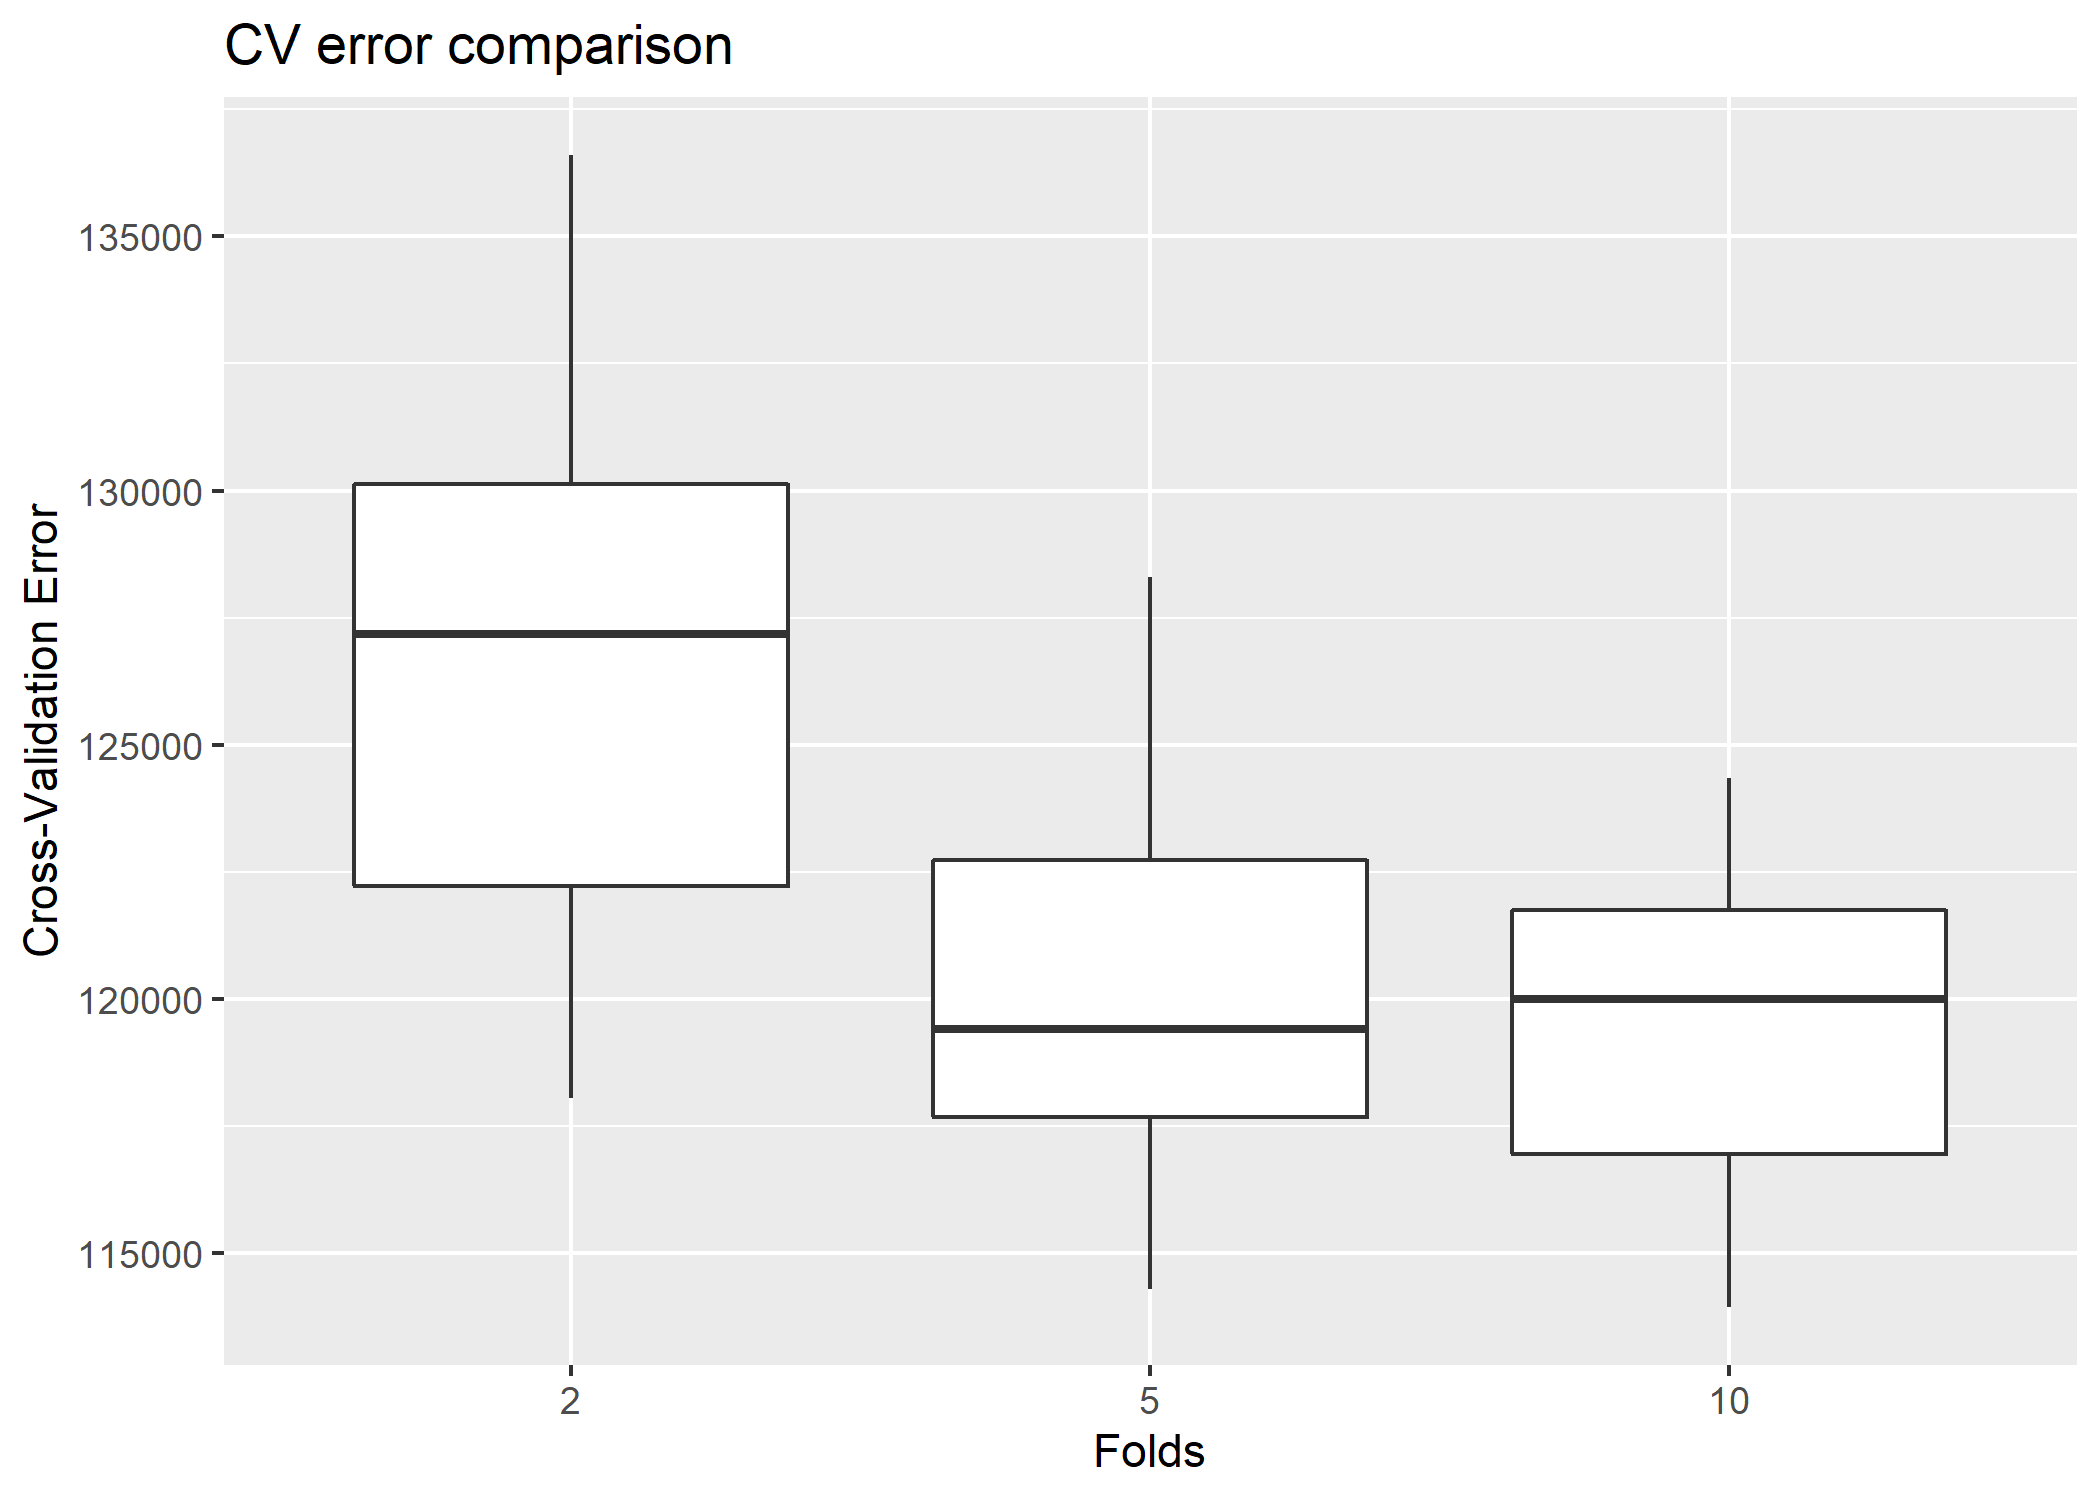
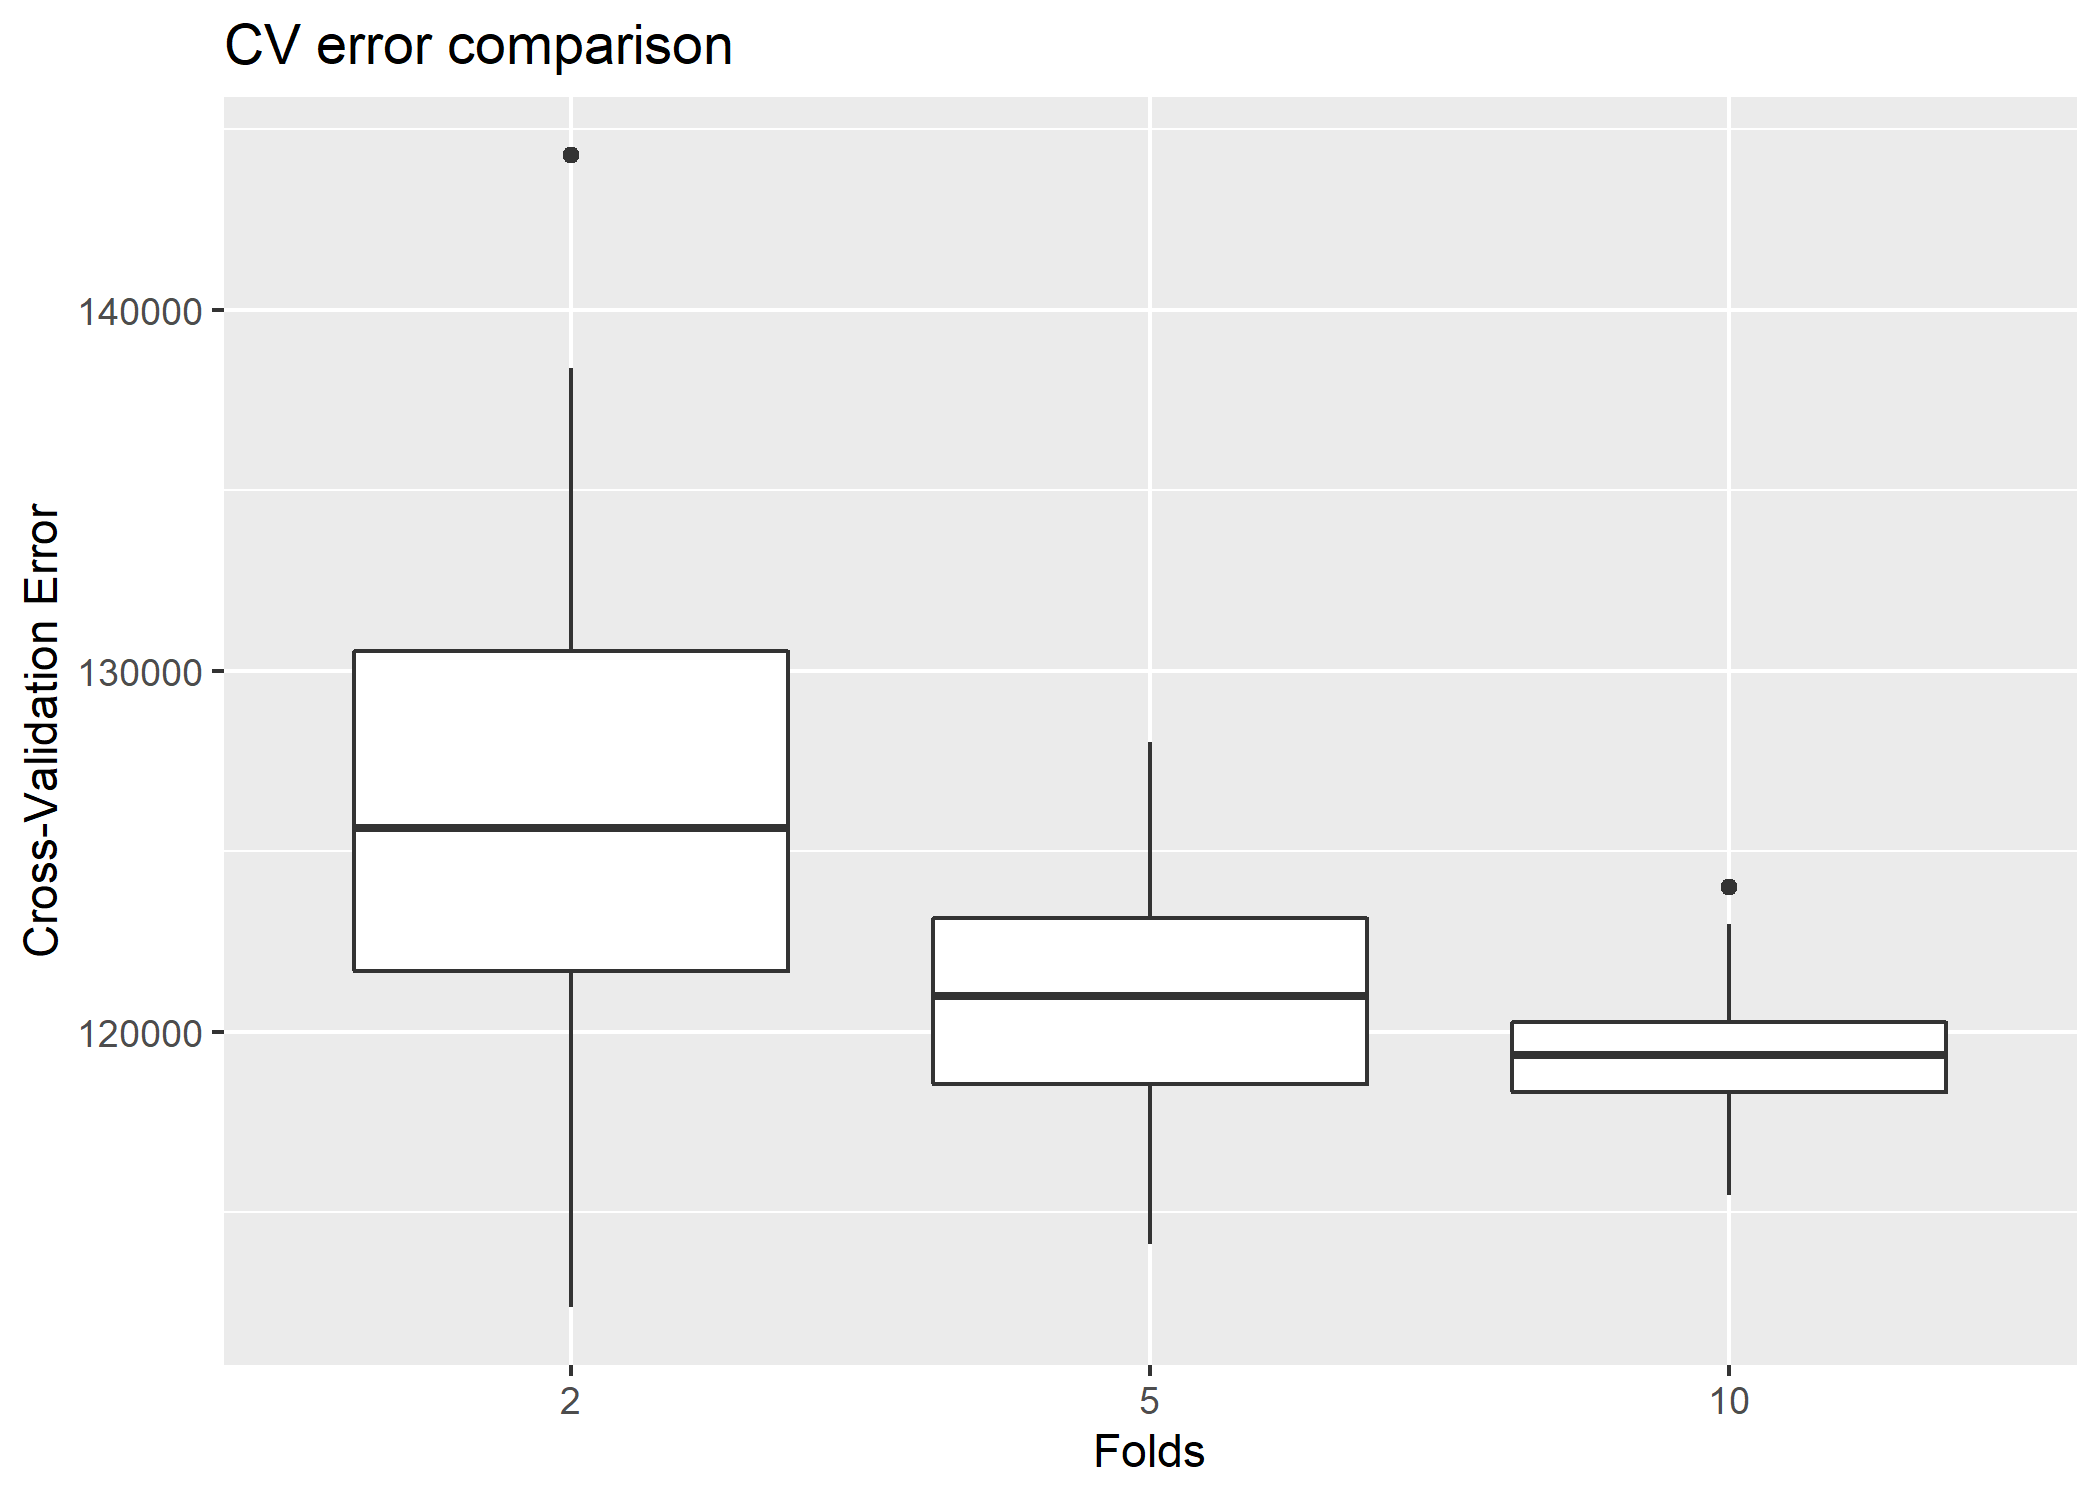
update analysis

diff --git a/Analysis/analysis.html b/Analysis/analysis.html
@@ -375,24 +375,25 @@ summary {
 <div id="cve-error-for-different-numbers-of-folds-across-30-simulations" class="section level3">
 <h3>CVE error for different numbers of folds across 30 simulations:</h3>
 <p>2 folds:</p>
-<p>1.219906310^{5}, 1.36609310^{5}, 1.287948610^{5}, 1.275122910^{5}, 1.267940110^{5}, 1.264496510^{5}, 1.316125310^{5}, 1.290623110^{5}, 1.288912510^{5}, 1.329263410^{5}, 1.319744210^{5}, 1.270353310^{5}, 1.180619210^{5}, 1.327824310^{5}, 1.336249910^{5}, 1.191001310^{5}, 1.251653110^{5}, 1.229254910^{5}, 1.300922310^{5}, 1.308212410^{5}, 1.273260210^{5}, 1.180486910^{5}, 1.216485210^{5}, 1.215209310^{5}, 1.183544210^{5}, 1.297739810^{5}, 1.261977110^{5}, 1.205215710^{5}, 1.25770710^{5}, 1.301380510^{5}</p>
+<p>1.215437610^{5}, 1.306407610^{5}, 1.164757810^{5}, 1.383913110^{5}, 1.443015810^{5}, 1.22162410^{5}, 1.149842310^{5}, 1.32435610^{5}, 1.257705710^{5}, 1.212636410^{5}, 1.255372910^{5}, 1.245378610^{5}, 1.162781910^{5}, 1.302533810^{5}, 1.204056110^{5}, 1.2000310^{5}, 1.317391610^{5}, 1.281997310^{5}, 1.123824610^{5}, 1.333523210^{5}, 1.244249210^{5}, 1.319673810^{5}, 1.295165110^{5}, 1.240821110^{5}, 1.231871610^{5}, 1.273521510^{5}, 1.259345910^{5}, 1.228803810^{5}, 1.323051210^{5}, 1.259994310^{5}</p>
 <p>5 folds:</p>
-<p>1.21888910^{5}, 1.19157610^{5}, 1.276760610^{5}, 1.16207110^{5}, 1.22877910^{5}, 1.16671710^{5}, 1.216993610^{5}, 1.194565910^{5}, 1.250993310^{5}, 1.180459510^{5}, 1.209108910^{5}, 1.168673310^{5}, 1.16110810^{5}, 1.142776210^{5}, 1.20899110^{5}, 1.229034510^{5}, 1.196277510^{5}, 1.192294610^{5}, 1.18614610^{5}, 1.165887310^{5}, 1.282921510^{5}, 1.237121610^{5}, 1.17159510^{5}, 1.17560510^{5}, 1.185738910^{5}, 1.245908610^{5}, 1.267360710^{5}, 1.223055110^{5}, 1.193462210^{5}, 1.179658410^{5}</p>
+<p>1.141371910^{5}, 1.201522310^{5}, 1.24649510^{5}, 1.233863610^{5}, 1.21162910^{5}, 1.207324610^{5}, 1.177587610^{5}, 1.214376210^{5}, 1.183011810^{5}, 1.198749910^{5}, 1.260979710^{5}, 1.262820310^{5}, 1.280221510^{5}, 1.193548810^{5}, 1.216630410^{5}, 1.181037310^{5}, 1.220324110^{5}, 1.169820310^{5}, 1.245106210^{5}, 1.208491710^{5}, 1.227312610^{5}, 1.213332610^{5}, 1.181625510^{5}, 1.150520810^{5}, 1.199677710^{5}, 1.193737310^{5}, 1.145438510^{5}, 1.233043510^{5}, 1.219196410^{5}, 1.233175910^{5}</p>
 <p>10 folds:</p>
-<p>1.164621710^{5}, 1.202861910^{5}, 1.203895410^{5}, 1.169407410^{5}, 1.165298710^{5}, 1.2203710^{5}, 1.163482910^{5}, 1.17446510^{5}, 1.201639510^{5}, 1.186313210^{5}, 1.243328310^{5}, 1.161849510^{5}, 1.236136510^{5}, 1.209650610^{5}, 1.217215910^{5}, 1.220008310^{5}, 1.190201510^{5}, 1.21748310^{5}, 1.158267910^{5}, 1.1694210^{5}, 1.203530810^{5}, 1.175527110^{5}, 1.198228510^{5}, 1.154389610^{5}, 1.232984210^{5}, 1.210798710^{5}, 1.139308510^{5}, 1.232275210^{5}, 1.193265910^{5}, 1.226546110^{5}</p>
+<p>1.202100810^{5}, 1.167870610^{5}, 1.223707810^{5}, 1.196736510^{5}, 1.185471310^{5}, 1.186538910^{5}, 1.17504910^{5}, 1.172076610^{5}, 1.180269810^{5}, 1.207788610^{5}, 1.229468810^{5}, 1.183571310^{5}, 1.190067510^{5}, 1.202999810^{5}, 1.240069410^{5}, 1.197886610^{5}, 1.183322310^{5}, 1.190441610^{5}, 1.192328910^{5}, 1.201716910^{5}, 1.202951710^{5}, 1.200118710^{5}, 1.194636110^{5}, 1.181098610^{5}, 1.207510510^{5}, 1.161792910^{5}, 1.154854210^{5}, 1.200744710^{5}, 1.191212310^{5}, 1.229804310^{5}</p>
 </div>
 <div id="boxplot-comparing-cve-for-different-numbers-of-folds-across-30-simiulations" class="section level3">
 <h3>Boxplot comparing CVE for different numbers of folds across 30 simiulations:</h3>
[2 lines of base64/hex data omitted]
 <p>Comparison of summary statistics for the CVE of different numbers of folds across 30 simiulations:</p>
 <pre><code>##   folds      min first_quartile   median     mean third_quartile      max
-## 1     2 118048.7       122224.3 127180.7 126717.6       130126.6 136609.3
-## 2     5 114277.6       117661.8 119401.4 120368.4       130126.6 128292.1
-## 3    10 113930.8       116941.1 119993.4 119475.9       121741.6 124332.8
+## 1     2 112382.5       121698.4 125653.9 125943.6       130543.9 144301.6
+## 2     5 114137.2       118564.6 121006.0 120839.9       130543.9 128022.1
+## 3    10 115485.4       118338.5 119348.3 119447.4       120273.9 124006.9
 ##   variance standard_deviation
-## 1 25755220           5074.960
-## 2 13201521           3633.390
-## 3  7952767           2820.065</code></pre>
+## 1 48045995           6931.522
+## 2 11488059           3389.404
+## 3  3841427           1959.956</code></pre>
+<p>The boxplot and table suggets that the cross-validation error decreases as the number of folds increases. With 2 folds, the error seems to be significantly higher whereas the difference in error between 5 and 10 folds is less noticeable. However, the boxplots suggest that there is less variance in error when there are 10 folds, compared to when there are 5. The table suggests the same, as cross-validation with 10 folds had the lowest standard deviation in its error. The table also shows that with only 2 folds, the standard deviation is much higher. The results suggest that the mean and standard deviation of the error decrease as the number of folds increase. I believe that this is the case because when we have a higher number of folds, this means that the amount of data we use as training data for our prediction increases, meaning that there is less room for error.</p>
 <p>Save output as files:</p>
 <pre class="r"><code># Save boxplot as png to /Output/Figures
 ggsave(&quot;../Output/Figures/folds_boxplot.png&quot;, folds_boxplot)</code></pre>
